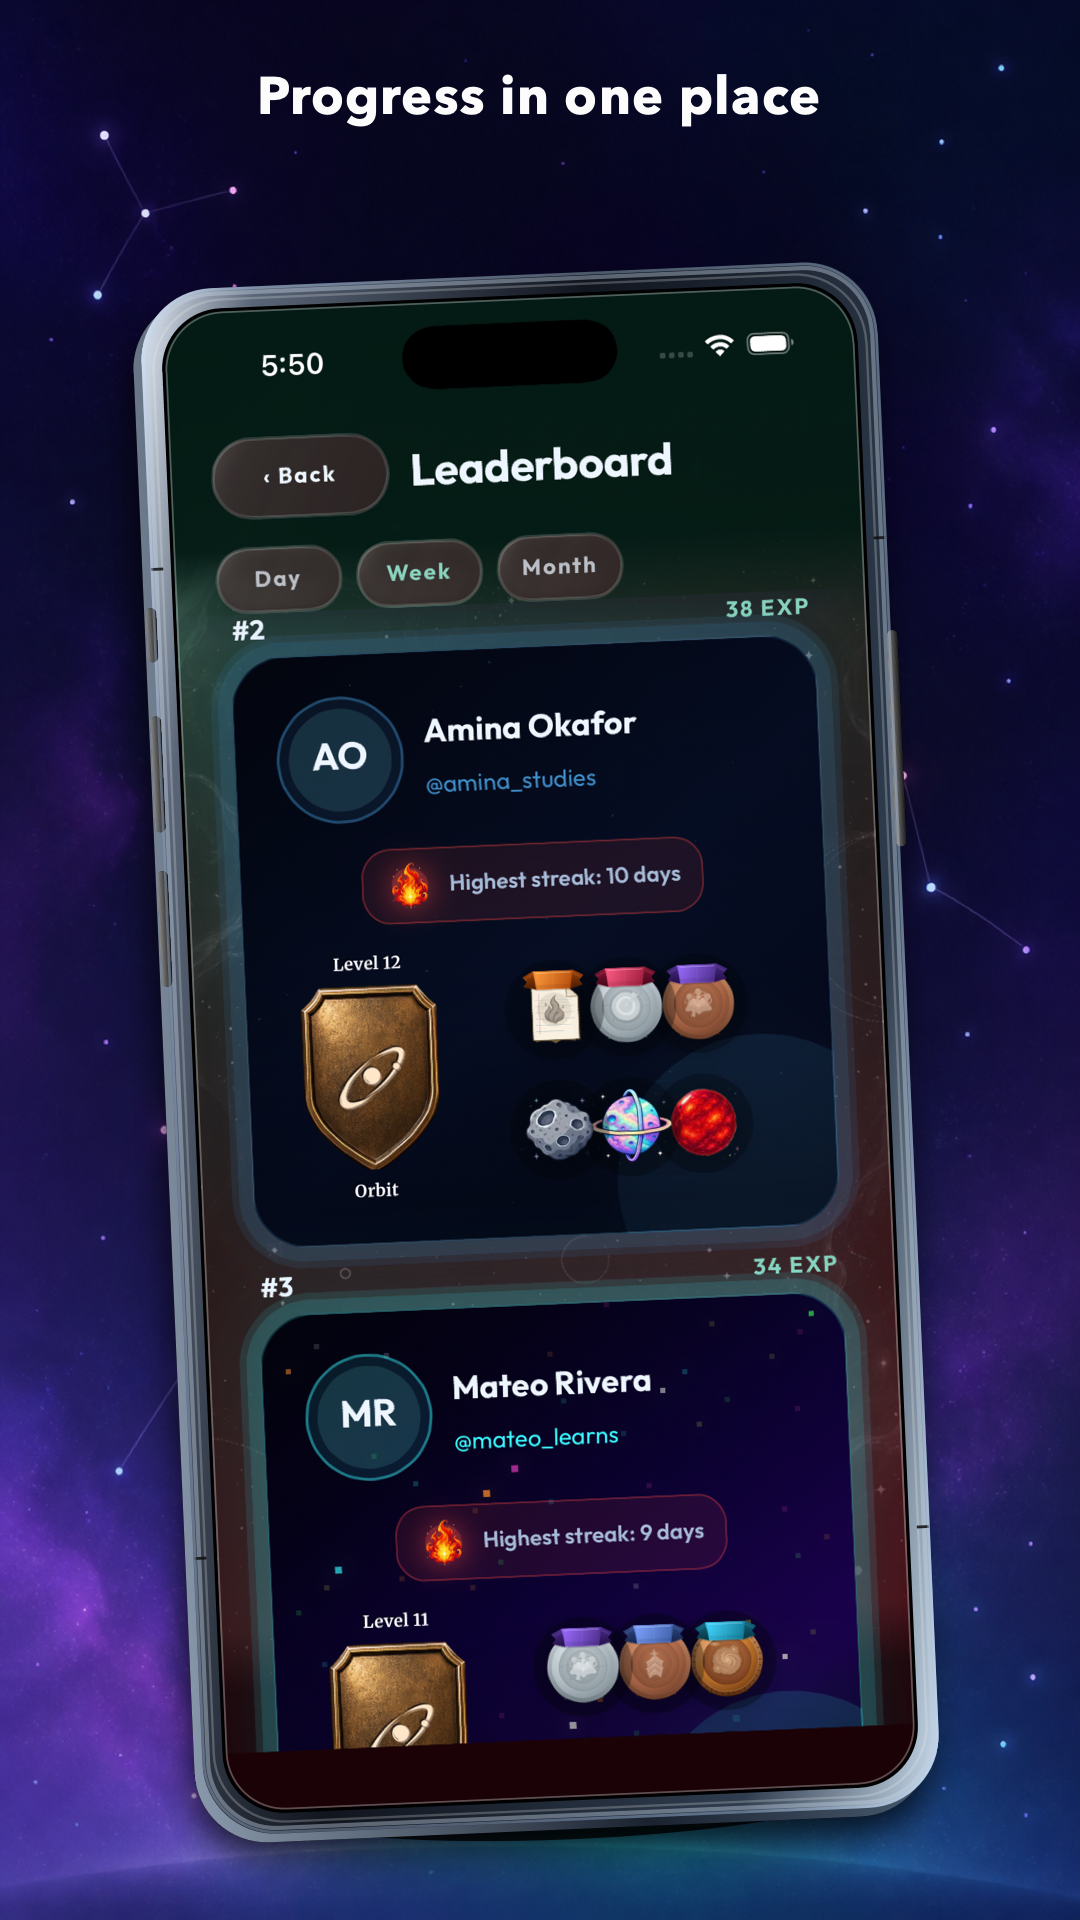
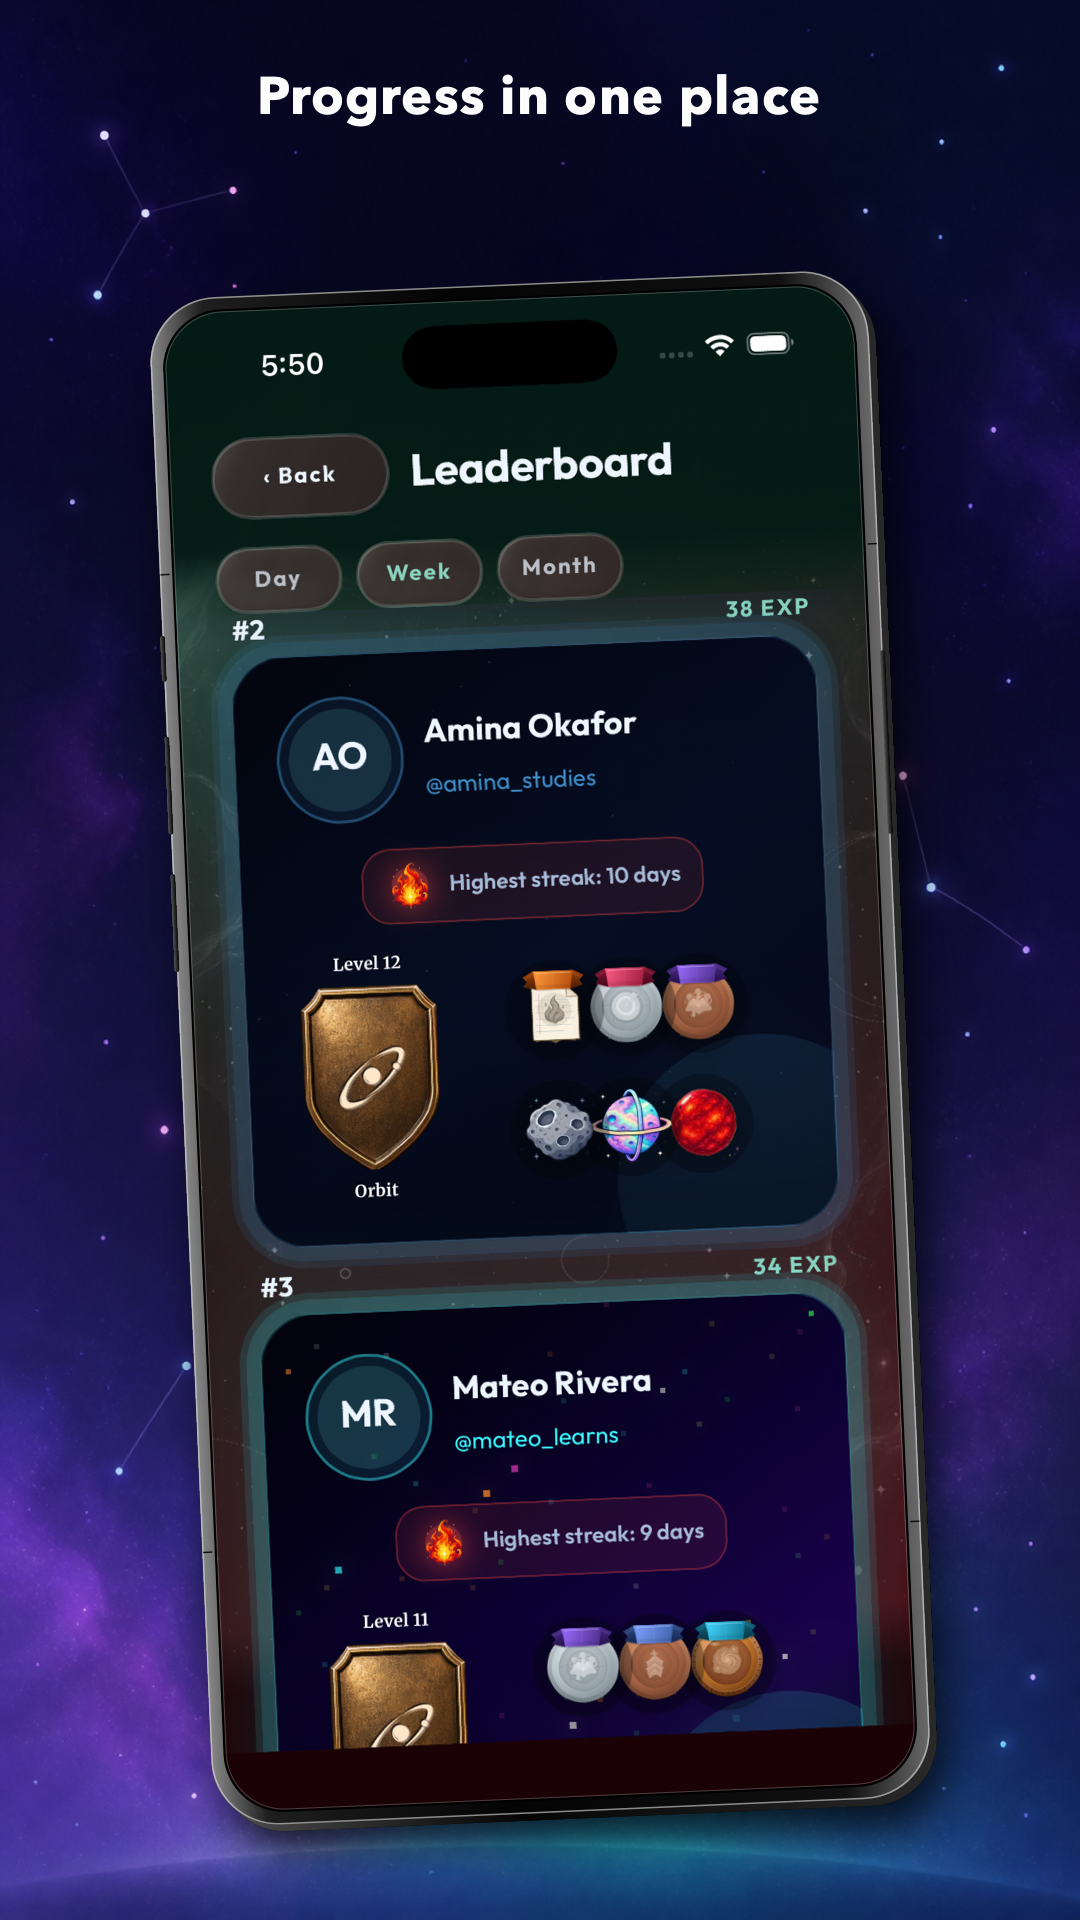
assets: rebuild store phones to match campaign flyers

Changed region(s): [[0.1222, 0.125, 0.8861, 1.0]]

diff --git a/scripts/render-store-graphics.swift b/scripts/render-store-graphics.swift
@@ -86,12 +86,15 @@ func centeredText(_ text: String, y: CGFloat, width: CGFloat, size: CGFloat) {
 }
 
 func drawFlyerPhone(_ screenshot: NSImage, screenRect: NSRect, rotation: CGFloat) {
-    let bezel: CGFloat = max(14, screenRect.width * 0.034)
+    // Flyer treatment: a thin, glossy graphite iPhone shell with a restrained
+    // silver lip. The display remains the dominant surface.
+    let bezel: CGFloat = max(8, screenRect.width * 0.021)
     let body = screenRect.insetBy(dx: -bezel, dy: -bezel)
-    let bodyRadius = screenRect.width * 0.105
+    let bodyRadius = screenRect.width * 0.096
     let screenRadius = screenRect.width * 0.084
     let center = NSPoint(x: body.midX, y: body.midY)
-    let depth = max(5, screenRect.width * 0.012)
+    let depth = max(5, screenRect.width * 0.010)
+    let depthX: CGFloat = rotation < 0 ? -depth : depth
 
     NSGraphicsContext.saveGraphicsState()
     let transform = NSAffineTransform()
@@ -100,21 +103,13 @@ func drawFlyerPhone(_ screenshot: NSImage, screenRect: NSRect, rotation: CGFloat
     transform.translateX(by: -center.x, yBy: -center.y)
     transform.concat()
 
-    let groundShadow = NSShadow()
-    groundShadow.shadowColor = NSColor(calibratedWhite: 0, alpha: 0.48)
-    groundShadow.shadowBlurRadius = max(42, screenRect.width * 0.10)
-    groundShadow.shadowOffset = NSSize(width: rotation * -1.2, height: -screenRect.width * 0.055)
-    groundShadow.set()
-    NSColor(calibratedWhite: 0, alpha: 0.82).setFill()
-    NSBezierPath(ovalIn: NSRect(x: body.minX + body.width * 0.10, y: body.minY - body.width * 0.025, width: body.width * 0.80, height: body.width * 0.11)).fill()
-
     let shadow = NSShadow()
-    shadow.shadowColor = NSColor(calibratedWhite: 0, alpha: 0.72)
-    shadow.shadowBlurRadius = max(22, screenRect.width * 0.055)
-    shadow.shadowOffset = NSSize(width: -rotation * 0.8, height: -screenRect.width * 0.025)
+    shadow.shadowColor = NSColor(calibratedWhite: 0, alpha: 0.78)
+    shadow.shadowBlurRadius = max(34, screenRect.width * 0.070)
+    shadow.shadowOffset = NSSize(width: depthX * 1.2, height: -screenRect.width * 0.035)
     shadow.set()
     NSColor.black.setFill()
-    NSBezierPath(roundedRect: body.offsetBy(dx: rotation > 0 ? -depth : depth, dy: -depth), xRadius: bodyRadius, yRadius: bodyRadius).fill()
+    NSBezierPath(roundedRect: body.offsetBy(dx: depthX, dy: -depth), xRadius: bodyRadius, yRadius: bodyRadius).fill()
     NSGraphicsContext.restoreGraphicsState()
 
     NSGraphicsContext.saveGraphicsState()
@@ -124,58 +119,53 @@ func drawFlyerPhone(_ screenshot: NSImage, screenRect: NSRect, rotation: CGFloat
     transform2.translateX(by: -center.x, yBy: -center.y)
     transform2.concat()
 
-    // Dark titanium body with a brighter rolled edge and a separate rear depth plane.
-    let backPlane = body.offsetBy(dx: rotation > 0 ? -depth : depth, dy: -depth)
+    // A shallow dark sidewall supplies the flyer-style physical depth without
+    // turning the phone into a bright illustrated frame.
+    let backPlane = body.offsetBy(dx: depthX, dy: -depth)
     let backMetal = NSGradient(colorsAndLocations:
-        (NSColor(calibratedRed: 0.46, green: 0.52, blue: 0.60, alpha: 1), 0.0),
-        (NSColor(calibratedRed: 0.08, green: 0.10, blue: 0.14, alpha: 1), 0.52),
-        (NSColor(calibratedRed: 0.30, green: 0.38, blue: 0.48, alpha: 1), 1.0)
+        (NSColor(calibratedWhite: 0.24, alpha: 1), 0.0),
+        (NSColor(calibratedWhite: 0.025, alpha: 1), 0.42),
+        (NSColor(calibratedWhite: 0.12, alpha: 1), 1.0)
     )!
-    backMetal.draw(in: NSBezierPath(roundedRect: backPlane, xRadius: bodyRadius, yRadius: bodyRadius), angle: 5)
+    backMetal.draw(in: NSBezierPath(roundedRect: backPlane, xRadius: bodyRadius, yRadius: bodyRadius), angle: 0)
 
     let chassis = NSGradient(colorsAndLocations:
-        (NSColor(calibratedRed: 0.80, green: 0.84, blue: 0.89, alpha: 1), 0.0),
-        (NSColor(calibratedRed: 0.28, green: 0.32, blue: 0.39, alpha: 1), 0.10),
-        (NSColor(calibratedRed: 0.055, green: 0.065, blue: 0.09, alpha: 1), 0.42),
-        (NSColor(calibratedRed: 0.14, green: 0.18, blue: 0.24, alpha: 1), 0.82),
-        (NSColor(calibratedRed: 0.70, green: 0.78, blue: 0.86, alpha: 1), 1.0)
+        (NSColor(calibratedWhite: 0.46, alpha: 1), 0.0),
+        (NSColor(calibratedWhite: 0.09, alpha: 1), 0.075),
+        (NSColor(calibratedWhite: 0.018, alpha: 1), 0.42),
+        (NSColor(calibratedWhite: 0.055, alpha: 1), 0.88),
+        (NSColor(calibratedWhite: 0.34, alpha: 1), 1.0)
     )!
-    chassis.draw(in: NSBezierPath(roundedRect: body, xRadius: bodyRadius, yRadius: bodyRadius), angle: -12)
+    chassis.draw(in: NSBezierPath(roundedRect: body, xRadius: bodyRadius, yRadius: bodyRadius), angle: 0)
 
-    // A narrow polished rail gives the shell the layered, machined look used on the flyers.
-    let rail = NSBezierPath(roundedRect: body.insetBy(dx: bezel * 0.24, dy: bezel * 0.24), xRadius: bodyRadius - bezel * 0.2, yRadius: bodyRadius - bezel * 0.2)
-    rail.lineWidth = max(2.2, bezel * 0.18)
-    NSColor(calibratedRed: 0.72, green: 0.78, blue: 0.86, alpha: 0.42).setStroke()
-    rail.stroke()
+    let outerLip = NSBezierPath(roundedRect: body.insetBy(dx: 0.8, dy: 0.8), xRadius: bodyRadius, yRadius: bodyRadius)
+    outerLip.lineWidth = max(1.2, screenRect.width * 0.0022)
+    NSColor(calibratedWhite: 0.82, alpha: 0.62).setStroke()
+    outerLip.stroke()
 
-    let innerRail = NSBezierPath(roundedRect: screenRect.insetBy(dx: -bezel * 0.50, dy: -bezel * 0.50), xRadius: screenRadius + bezel * 0.55, yRadius: screenRadius + bezel * 0.55)
-    innerRail.lineWidth = max(1.4, bezel * 0.10)
-    NSColor(calibratedWhite: 0.92, alpha: 0.24).setStroke()
-    innerRail.stroke()
-
-    // Fine antenna breaks and polished caps keep the silhouette from reading as a flat outline.
-    NSColor(calibratedWhite: 0.05, alpha: 0.85).setStroke()
+    // Fine antenna breaks and compact black controls match the flyer references.
+    NSColor(calibratedWhite: 0.02, alpha: 0.92).setStroke()
     for y in [body.minY + body.height * 0.18, body.maxY - body.height * 0.18] {
         let leftBreak = NSBezierPath()
         leftBreak.move(to: NSPoint(x: body.minX + 1, y: y))
-        leftBreak.line(to: NSPoint(x: body.minX + bezel * 0.55, y: y))
-        leftBreak.lineWidth = max(2, bezel * 0.12)
+        leftBreak.line(to: NSPoint(x: body.minX + bezel * 0.70, y: y))
+        leftBreak.lineWidth = max(1.2, bezel * 0.10)
         leftBreak.stroke()
         let rightBreak = NSBezierPath()
-        rightBreak.move(to: NSPoint(x: body.maxX - bezel * 0.55, y: y))
+        rightBreak.move(to: NSPoint(x: body.maxX - bezel * 0.70, y: y))
         rightBreak.line(to: NSPoint(x: body.maxX - 1, y: y))
-        rightBreak.lineWidth = max(2, bezel * 0.12)
+        rightBreak.lineWidth = max(1.2, bezel * 0.10)
         rightBreak.stroke()
     }
 
-    let sideWidth = max(5, bezel * 0.46)
-    let leftX = body.minX - sideWidth * 0.62
-    let buttonGradient = NSGradient(starting: NSColor(calibratedWhite: 0.46, alpha: 1), ending: NSColor(calibratedWhite: 0.08, alpha: 1))!
+    let sideWidth = max(3.5, bezel * 0.34)
+    let leftX = body.minX - sideWidth * 0.48
+    let buttonGradient = NSGradient(starting: NSColor(calibratedWhite: 0.27, alpha: 1), ending: NSColor(calibratedWhite: 0.025, alpha: 1))!
     for button in [
-        NSRect(x: leftX, y: body.maxY - body.height * 0.24, width: sideWidth, height: body.height * 0.035),
-        NSRect(x: leftX, y: body.maxY - body.height * 0.35, width: sideWidth, height: body.height * 0.075),
-        NSRect(x: leftX, y: body.maxY - body.height * 0.45, width: sideWidth, height: body.height * 0.075),
-        NSRect(x: body.maxX - sideWidth * 0.38, y: body.maxY - body.height * 0.38, width: sideWidth, height: body.height * 0.14),
+        NSRect(x: leftX, y: body.maxY - body.height * 0.25, width: sideWidth, height: body.height * 0.030),
+        NSRect(x: leftX, y: body.maxY - body.height * 0.35, width: sideWidth, height: body.height * 0.064),
+        NSRect(x: leftX, y: body.maxY - body.height * 0.44, width: sideWidth, height: body.height * 0.064),
+        NSRect(x: body.maxX - sideWidth * 0.52, y: body.maxY - body.height * 0.37, width: sideWidth, height: body.height * 0.12),
     ] {
         NSGraphicsContext.saveGraphicsState()
         let buttonShadow = NSShadow()
@@ -187,23 +177,18 @@ func drawFlyerPhone(_ screenshot: NSImage, screenRect: NSRect, rotation: CGFloat
         NSGraphicsContext.restoreGraphicsState()
     }
 
-    NSColor.black.setFill()
-    NSBezierPath(roundedRect: screenRect.insetBy(dx: -3, dy: -3), xRadius: screenRadius + 3, yRadius: screenRadius + 3).fill()
+    NSColor(calibratedWhite: 0.002, alpha: 1).setFill()
+    NSBezierPath(roundedRect: screenRect.insetBy(dx: -2.0, dy: -2.0), xRadius: screenRadius + 2, yRadius: screenRadius + 2).fill()
     NSGraphicsContext.saveGraphicsState()
     NSBezierPath(roundedRect: screenRect, xRadius: screenRadius, yRadius: screenRadius).addClip()
     screenshot.draw(in: screenRect, from: .zero, operation: .copy, fraction: 1, respectFlipped: true, hints: [.interpolation: NSImageInterpolation.high])
     NSGraphicsContext.restoreGraphicsState()
 
-    // Subtle glass edge only; it never crosses or modifies the UI pixels.
-    let glassEdge = NSBezierPath(roundedRect: screenRect.insetBy(dx: 1.2, dy: 1.2), xRadius: screenRadius, yRadius: screenRadius)
-    glassEdge.lineWidth = max(1.2, screenRect.width * 0.0025)
-    NSColor(calibratedWhite: 1, alpha: 0.30).setStroke()
+    // A single glass hairline; no bright nested rings and nothing over the UI.
+    let glassEdge = NSBezierPath(roundedRect: screenRect.insetBy(dx: 0.75, dy: 0.75), xRadius: screenRadius, yRadius: screenRadius)
+    glassEdge.lineWidth = max(0.9, screenRect.width * 0.0015)
+    NSColor(calibratedWhite: 1, alpha: 0.22).setStroke()
     glassEdge.stroke()
-
-    NSColor(calibratedRed: 0.70, green: 0.82, blue: 1.0, alpha: 0.34).setStroke()
-    let rim = NSBezierPath(roundedRect: body.insetBy(dx: 1.5, dy: 1.5), xRadius: bodyRadius, yRadius: bodyRadius)
-    rim.lineWidth = max(2, screenRect.width * 0.004)
-    rim.stroke()
     NSGraphicsContext.restoreGraphicsState()
 }
 

diff --git a/docs/store-assets/README.md b/docs/store-assets/README.md
@@ -6,8 +6,9 @@
 
 - Added shared native iPhone source captures and separate Google Play and iOS
   marketing exports.
-- Standardized the store graphics on the flyer-style phone treatment while
-  keeping every app interface as an untouched screenshot layer.
+- Standardized the store graphics on the flyers' thin graphite phone treatment
+  with a near-flush display and restrained metallic edge, while keeping every
+  app interface as an untouched screenshot layer.
 
 ## Structure
 
